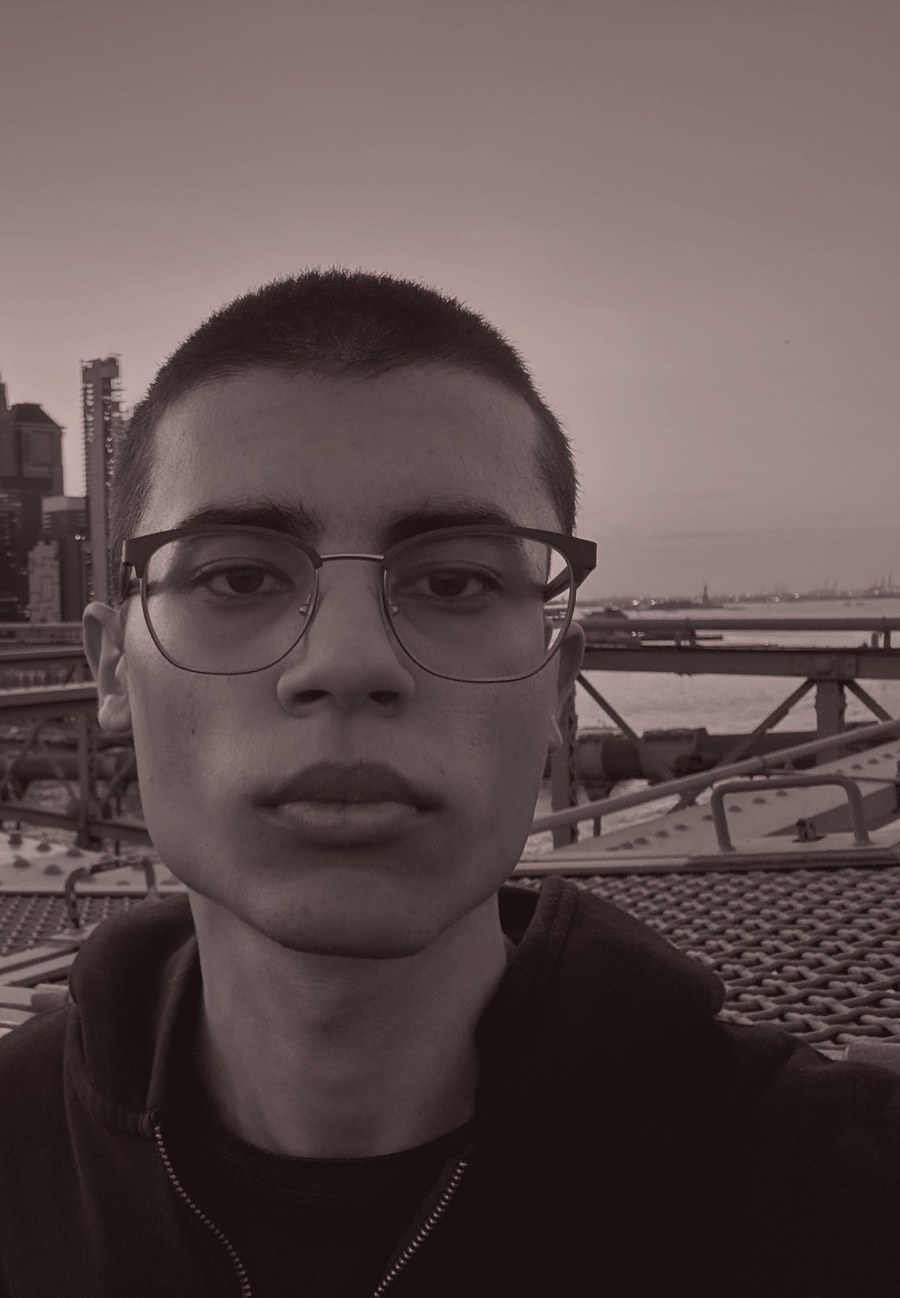
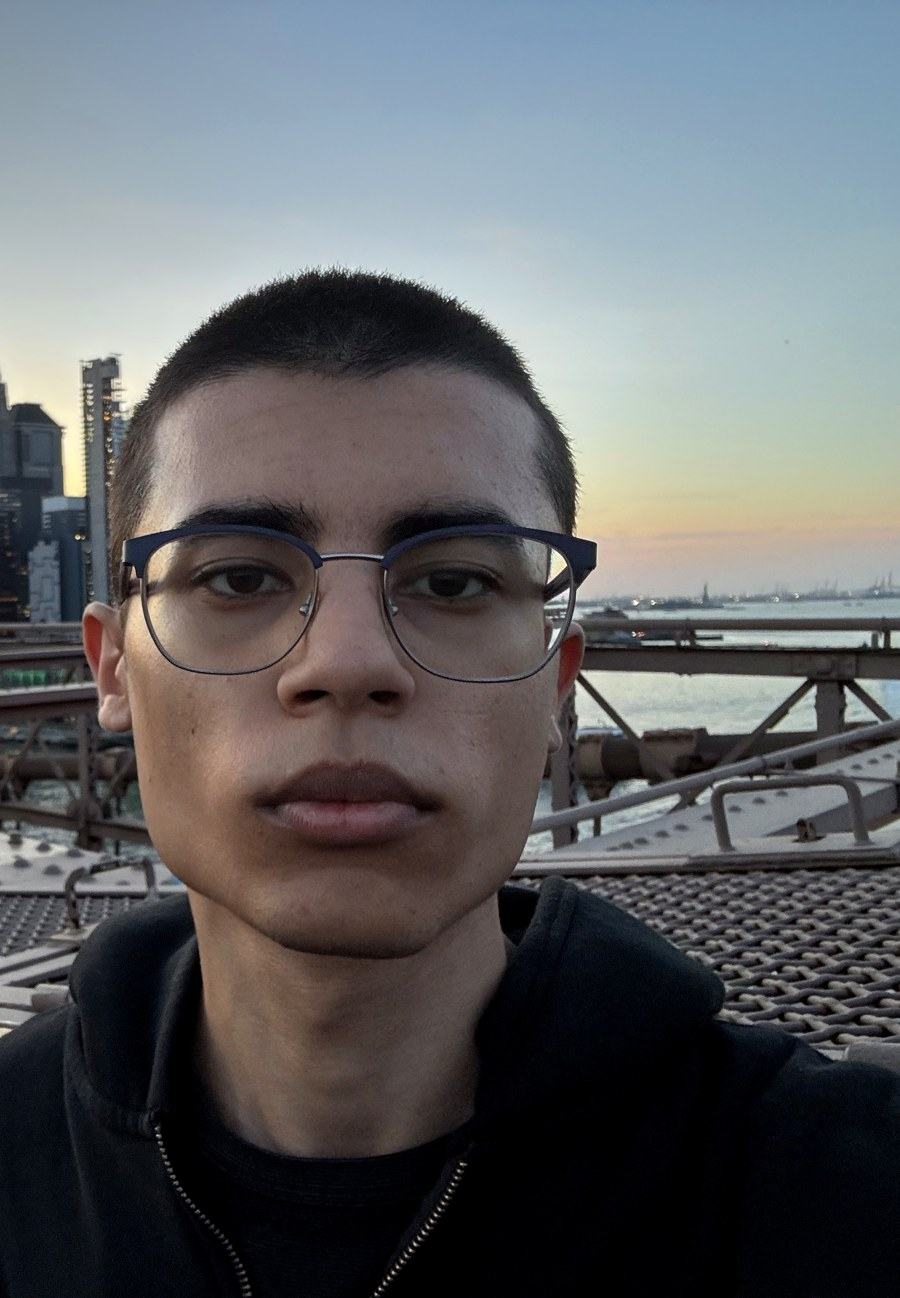
Update to Beldangi Fax Machine dev org / AIML intern and restore color photo
- About: Beldangi Fax Machine dev org @ Apple, currently AIML intern
- Restore full-color profile photo (same subject-focused crop, polished)

diff --git a/index.html b/index.html
@@ -56,22 +56,23 @@
                                     <td>Beldangi Refugee Camp, Nepal</td>
                                 </tr>
                                 <tr>
-                                    <td>Role:</td>
-                                    <td>iOS Developer @ Apple</td>
+                                    <td>Org:</td>
+                                    <td>Beldangi Fax Machine (dev org @ Apple)</td>
                                 </tr>
                                 <tr>
-                                    <td>Team:</td>
-                                    <td>Apple iOS Dev Team (since June 2025)</td>
+                                    <td>Role:</td>
+                                    <td>AIML Intern</td>
                                 </tr>
                                 <tr>
                                     <td>Focus:</td>
-                                    <td>Full Stack &amp; iOS Development</td>
+                                    <td>AI / ML &amp; Full Stack Development</td>
                                 </tr>
                             </table>
                             <p class="bio">
-                                From Beldangi Refugee Camp to writing code. Now an iOS developer on
-                                Apple's iOS dev team since June 2025. Building software, shipping
-                                products, learning every day. Self-taught.
+                                From Beldangi Refugee Camp to writing code. Part of Beldangi Fax
+                                Machine, a developer organization within Apple, where I'm currently
+                                an AIML intern. Building software, shipping products, learning every
+                                day. Self-taught.
                             </p>
                         </div>
                     </div>
